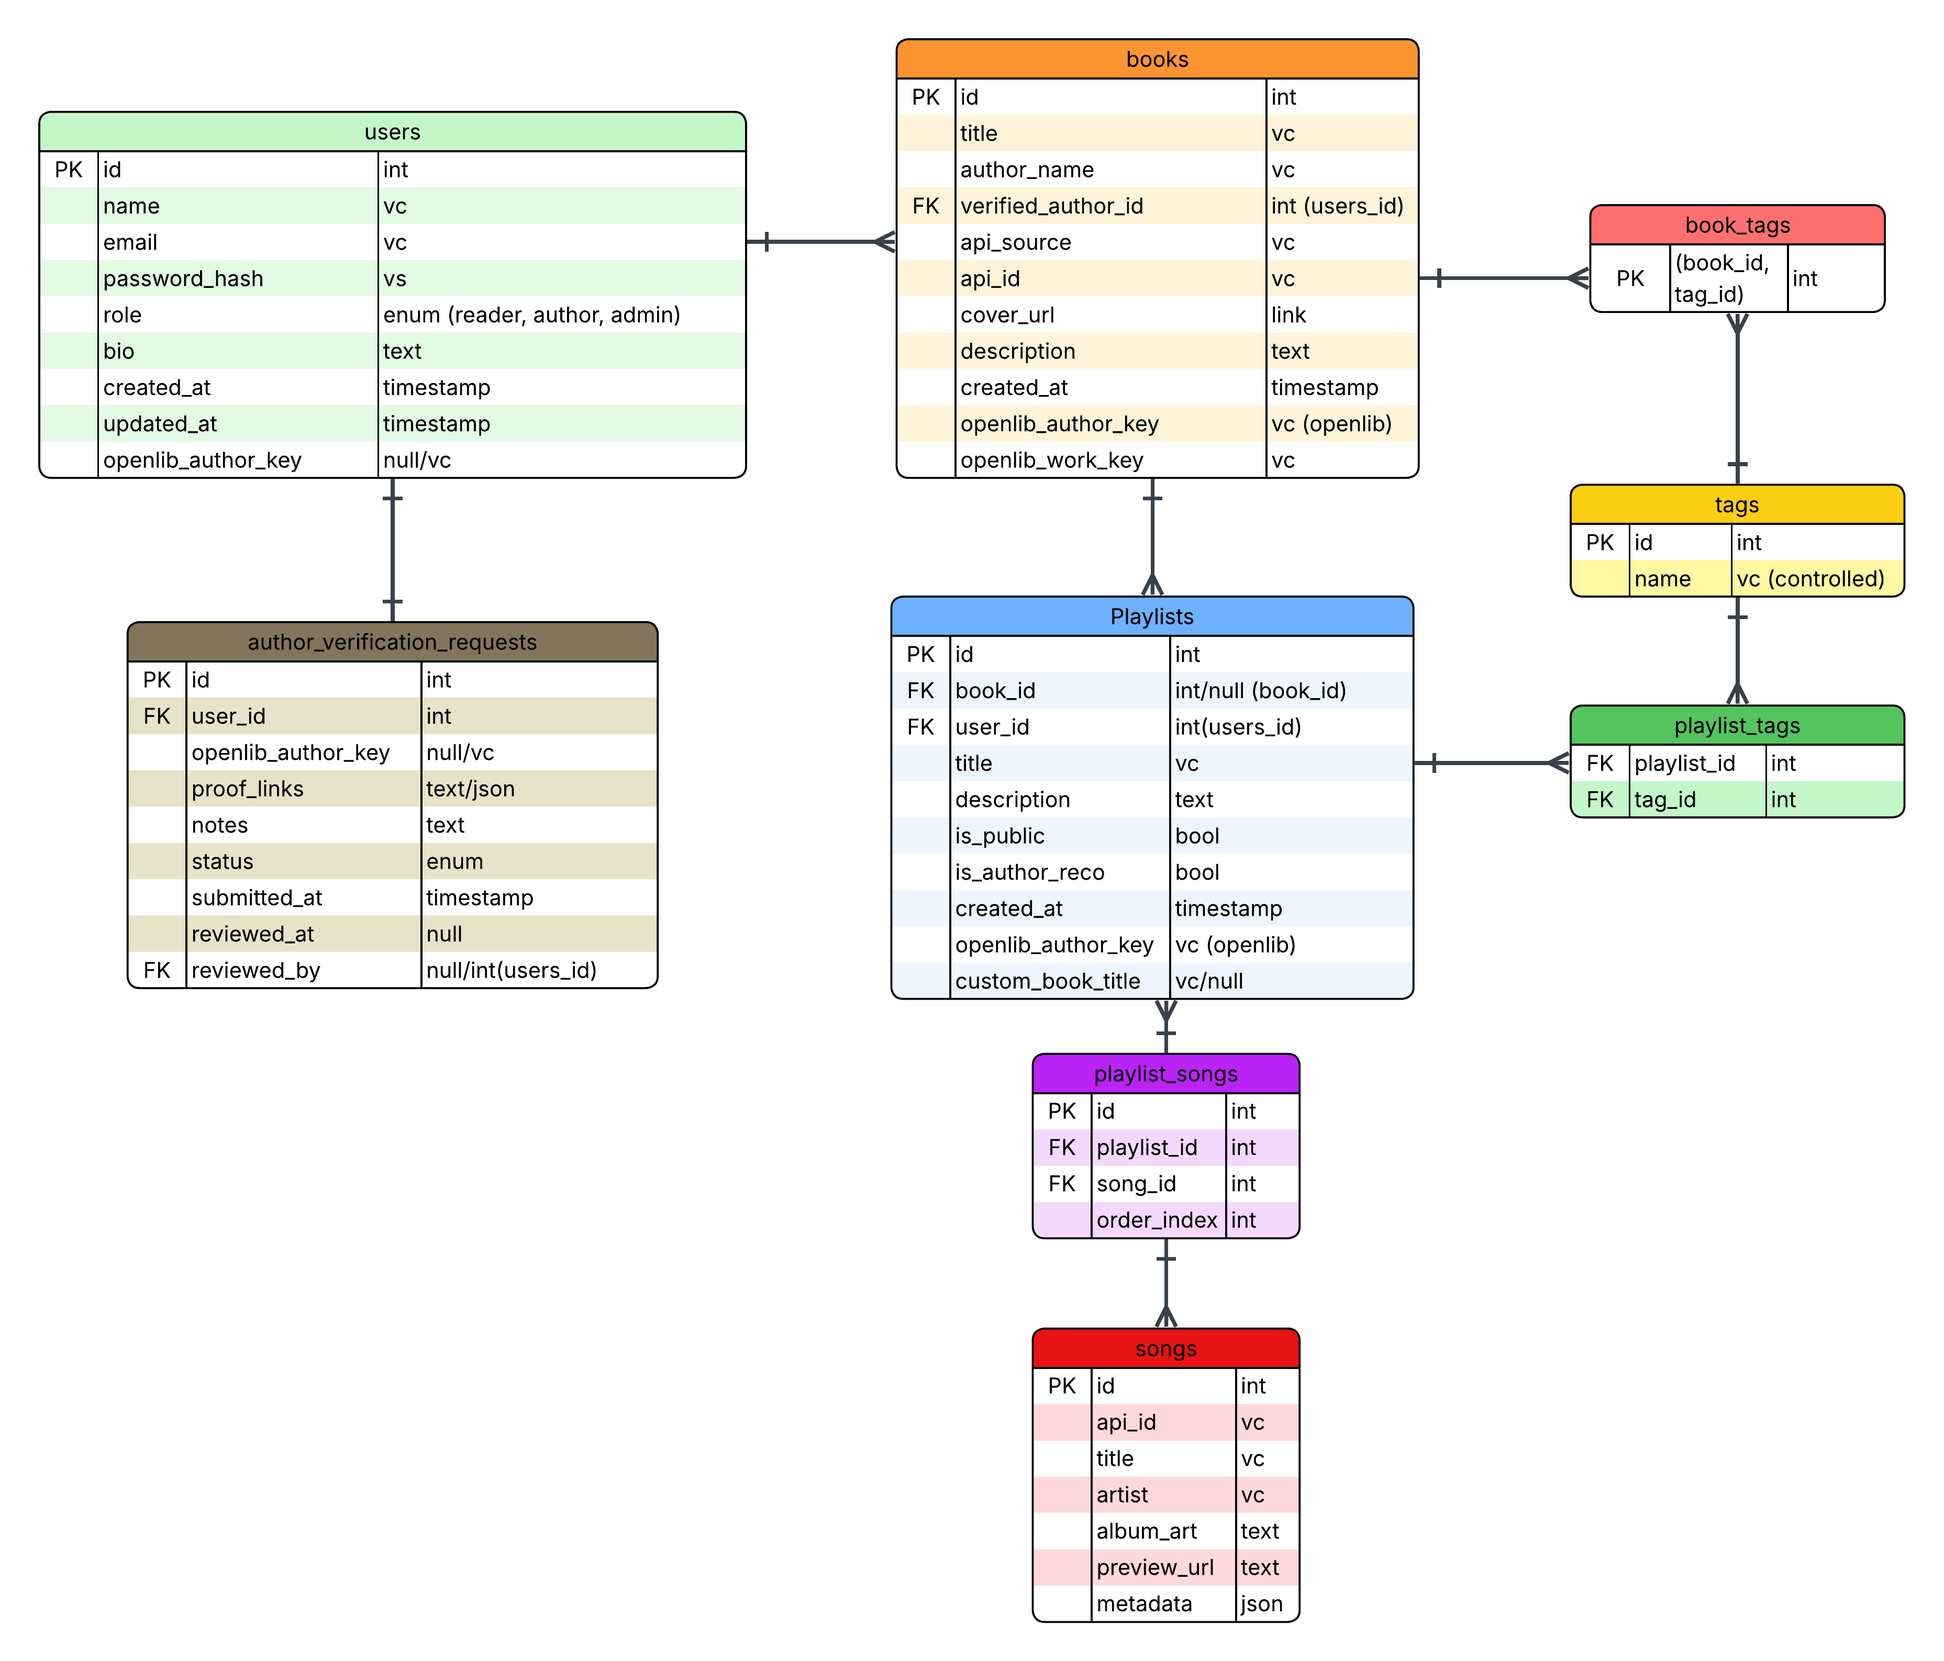
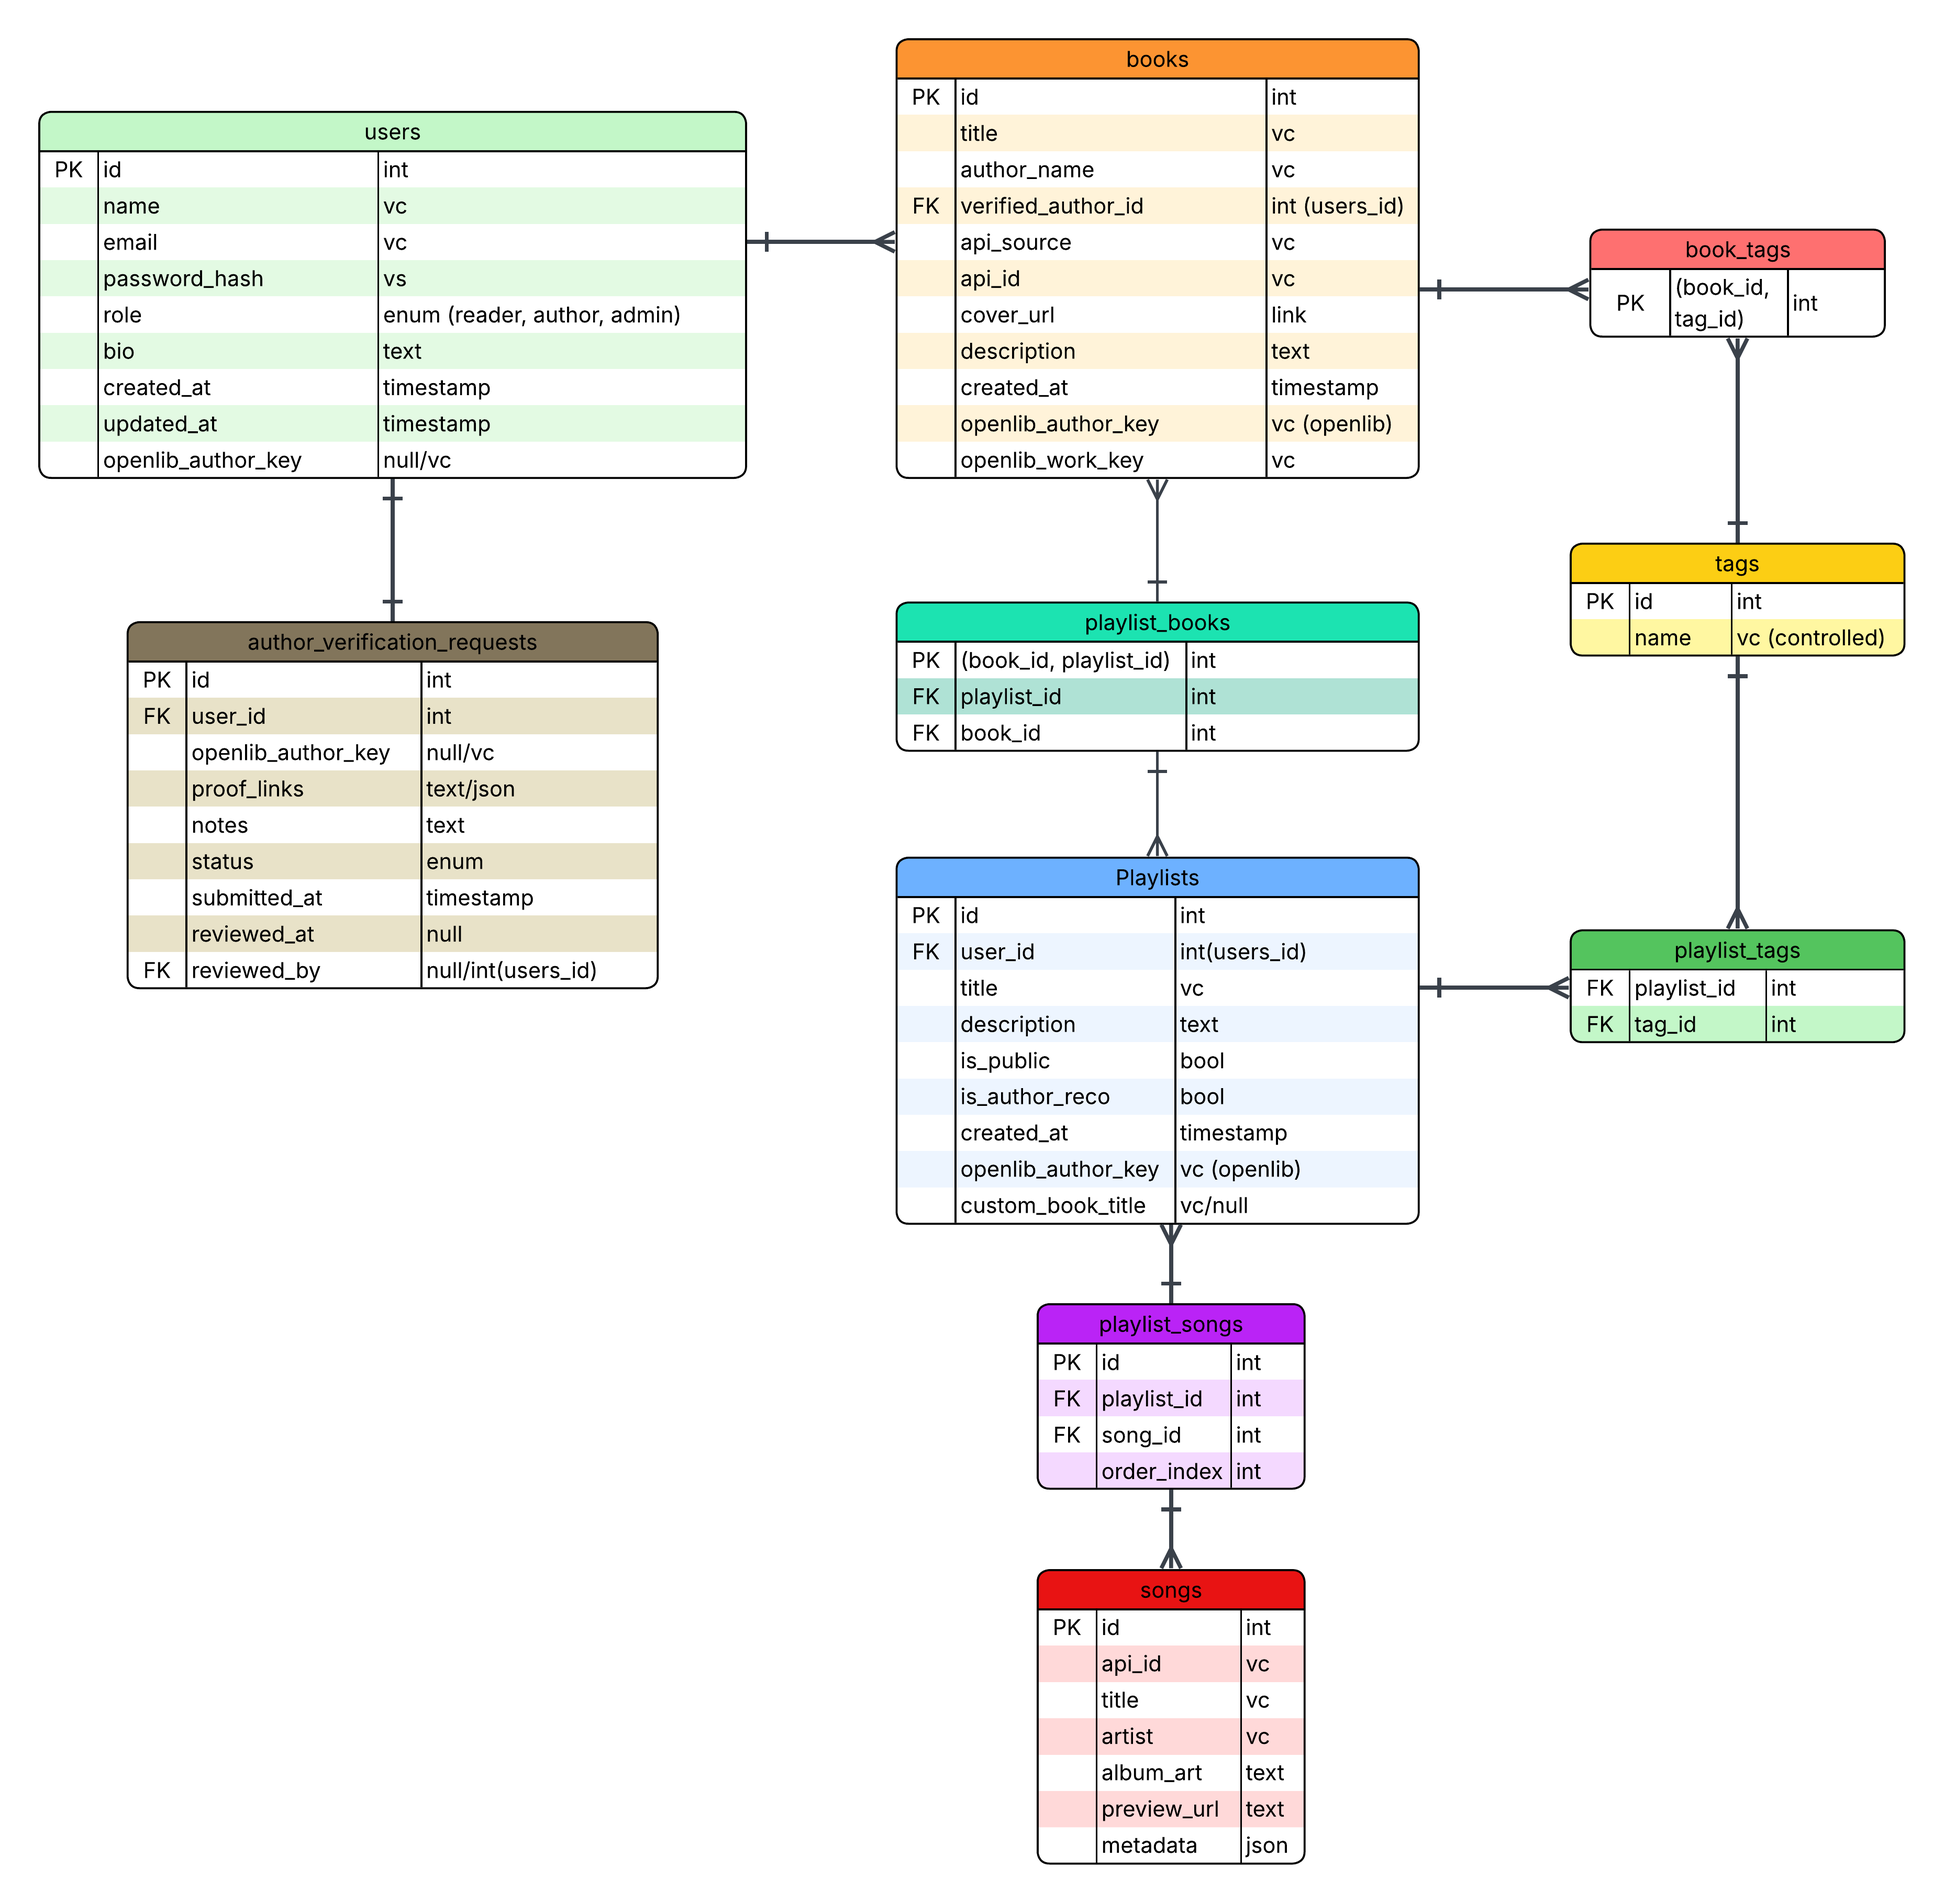
initial commit for backend models, init and extensions

diff --git a/Backend/app/models.py b/Backend/app/models.py
@@ -1,0 +1,230 @@
+from .extensions import db
+from sqlalchemy.orm import relationship
+from sqlalchemy import ForeignKey, Table, Column, Integer, String
+from sqlalchemy.sql import func
+from sqlalchemy import Enum
+
+
+
+# no need for junction tables as relationships are defined in the models directly
+
+#_____________USERS_____________________
+class Users(db.Model):
+    __tablename__ = 'users'
+    
+    id = db.Column(db.Integer, primary_key=True)
+    first_name = db.Column(db.String(250), nullable=False)
+    last_name = db.Column(db.String(250), nullable=False)
+    username = db.Column(db.String(250), unique=True, nullable=False)
+    email = db.Column(db.String(250), unique=True, nullable=False)
+    password = db.Column(db.String(250), nullable=False)
+    role = db.Column(
+        db.Enum('reader', 'admin', 'author', name='user_roles'), 
+        default='reader', 
+        nullable=False)
+    created_at = db.Column(db.DateTime(timezone=True), server_default=func.now())
+    updated_at = db.Column(db.DateTime(timezone=True), onupdate=func.now())
+    openlib_author_key = db.Column(db.String(250), nullable=True)
+    
+    #------------RELATIONSHIPS-----------------
+    
+    playlists = relationship("Playlists", backref="user", lazy=True)
+    authored_books = relationship(
+        "Books", 
+        secondary="book_authors", 
+        backref="authors", 
+        lazy='dynamic')
+
+#_____________AUTHOR VERIFICATION REQUESTS_____________________
+class Author_verification_requests(db.Model):
+    
+    __tablename__ = 'author_verification_requests'
+    
+    id = db.Column(db.Integer, primary_key=True)
+    user_id = db.Column(db.Integer, db.ForeignKey('users.id'), nullable=False)
+    author_bio = db.Column(db.String(1000), nullable=False)
+    openlib_author_key = db.Column(db.String(250), nullable=False)
+    proof_links = db.Column(db.String(1000), nullable=True)
+    notes = db.Column(db.String(1000), nullable=True)
+    status = db.Column(
+        db.Enum('pending', 'approved', 'rejected', name='verification_statuses'), 
+        default='pending', 
+        nullable=False)
+    submitted_at = db.Column(db.DateTime(timezone=True), server_default=func.now())
+    reviewed_at = db.Column(db.DateTime(timezone=True), onupdate=func.now())
+    reviewed_by = db.Column(db.Integer, db.ForeignKey('users.id'), nullable=True)
+
+#------------RELATIONSHIPS-----------------
+    user = relationship("Users", foreign_keys=[user_id], backref="verification_requests")
+    reviewer = relationship("Users", foreign_keys=[reviewed_by])
+
+
+#_____________BOOKS_____________________
+#this table is for verified books only from the API. 
+class Books(db.Model):
+    __tablename__ = 'books'
+    
+    id = db.Column(db.Integer, primary_key=True)
+    title = db.Column(db.String(500), nullable=False)
+    author_name = db.Column(db.String(250), nullable=False)
+    api_source = db.Column(db.String(250), nullable=True)
+    api_id = db.Column(db.String(250), nullable=True)
+    cover_url = db.Column(db.String(500), nullable=True)
+    description = db.Column(db.String(2000), nullable=True)
+    created_at = db.Column(db.DateTime(timezone=True), server_default=func.now())
+    updated_at = db.Column(db.DateTime(timezone=True), onupdate=func.now())
+    openlib_author_key = db.Column(db.String(250), nullable=True)
+    openlib_work_key = db.Column(db.String(250), nullable=True)
+    first_publish_year = db.Column(db.Integer, nullable=True)
+    
+#------------RELATIONSHIPS-----------------
+    # Multi-author support
+    authors = relationship(
+        "Users",
+        secondary="book_authors",
+        backref="authored_books",
+        lazy="dynamic"
+    )
+
+    # Tags on books
+    tags = relationship(
+        "Tags",
+        secondary="book_tags",
+        backref="books",
+        lazy="dynamic"
+    )
+
+    # Playlists that include this book
+    playlists = relationship(
+        "Playlists",
+        secondary="playlist_books",
+        backref="books",
+        lazy="dynamic"
+    )
+
+    
+
+#_____________PLAYLISTS_____________________
+#playlists is where users can create custom book titles if they cannot find the verified book in the Books table. eventually, the API can try to match the titles from playlists to add verified books to the Books table using the title and author name.
+class Playlists(db.Model):
+    __tablename__ = 'playlists'
+    
+    id = db.Column(db.Integer, primary_key=True)
+    user_id = db.Column(db.Integer, db.ForeignKey('users.id'), nullable=False)
+    title = db.Column(db.String(250), nullable=False)
+    description = db.Column(db.String(1000), nullable=True)
+    is_public = db.Column(db.Boolean, default=True, nullable=False)
+    is_author_reco = db.Column(db.Boolean, default=False, nullable=False)
+    created_at = db.Column(db.DateTime(timezone=True), server_default=func.now())
+    updated_at = db.Column(db.DateTime(timezone=True), onupdate=func.now())
+    openlib_author_key = db.Column(db.String(250), nullable=True)
+    custom_book_title = db.Column(db.String(250), nullable=True)
+    custom_author_name = db.Column(db.String(250), nullable=True)
+    
+#------------RELATIONSHIPS-----------------
+    # Books included in this playlist
+    books = relationship(
+        "Books",
+        secondary="playlist_books",
+        backref="playlists",
+        lazy="dynamic"
+    )
+
+    # Tags applied to this playlist
+    tags = relationship(
+        "Tags",
+        secondary="playlist_tags",
+        backref="playlists",
+        lazy="dynamic"
+    )
+
+    # Songs in this playlist (ordered)
+    songs = relationship(
+        "Songs",
+        secondary="playlist_songs",
+        backref="playlists",
+        lazy="dynamic"
+    )
+
+    
+#_____________SONGS_____________________
+class Songs(db.Model):
+    __tablename__ = 'songs'
+    
+    id = db.Column(db.Integer, primary_key=True)
+    api_id = db.Column(db.String(250), nullable=False)
+    title = db.Column(db.String(500), nullable=False)
+    artists = db.Column(db.JSON, nullable=False) #storing as JSON to accommodate multiple artists
+    album = db.Column(db.String(250), nullable=True)
+    album_art = db.Column(db.String(500), nullable=True)
+    preview_url = db.Column(db.String(500), nullable=True)
+    api_metadata = db.Column(db.String(1000), nullable=True)
+    source = db.Column(db.String(250), nullable=False, default="Spotify")
+
+#------------RELATIONSHIPS-----------------
+    playlists = relationship(
+    "Playlists",
+    secondary="playlist_songs",
+    backref="songs",
+    lazy="dynamic"
+)
+
+#_____________TAGS_____________________
+class Tags(db.Model):
+    __tablename__ = 'tags'
+    
+    id = db.Column(db.Integer, primary_key=True)
+    name = db.Column(db.String(100), unique=True, nullable=False)
+
+#------------RELATIONSHIPS-----------------
+    # Books that use this tag
+    books = relationship(
+        "Books",
+        secondary="book_tags",
+        backref="tags",
+        lazy="dynamic"
+    )
+
+    # Playlists that use this tag
+    playlists = relationship(
+        "Playlists",
+        secondary="playlist_tags",
+        backref="tags",
+        lazy="dynamic"
+    )
+
+#_____________ASSOCIATION TABLES_____________________
+    
+class Playlist_Songs(db.Model):
+    __tablename__ = 'playlist_songs'
+
+    playlist_id = db.Column(db.Integer, db.ForeignKey('playlists.id'), primary_key=True)
+    song_id = db.Column(db.Integer, db.ForeignKey('songs.id'), primary_key=True)
+    
+#_____________JUNCTION TABLES_____________________
+#all tables use composite primary keys to prevent duplicate entries
+class Playlist_Books(db.Model):
+    __tablename__ = 'playlist_books'
+    
+    playlist_id = db.Column(db.Integer, db.ForeignKey('playlists.id'), primary_key=True)
+    book_id = db.Column(db.Integer, db.ForeignKey('books.id'), primary_key=True)
+
+class Playlist_Tags(db.Model):
+    __tablename__ = 'playlist_tags'
+
+    playlist_id = db.Column(db.Integer, db.ForeignKey('playlists.id'), primary_key=True)
+    tag_id = db.Column(db.Integer, db.ForeignKey('tags.id'), primary_key=True)
+    
+class Book_Tags(db.Model):
+    __tablename__ = 'book_tags'
+
+    book_id = db.Column(db.Integer, db.ForeignKey('books.id'), primary_key=True)
+    tag_id = db.Column(db.Integer, db.ForeignKey('tags.id'), primary_key=True)
+    
+class Book_Authors(db.Model):
+    __tablename__ = 'book_authors'
+
+    book_id = db.Column(db.Integer, db.ForeignKey('books.id'), primary_key=True)
+    user_id = db.Column(db.Integer, db.ForeignKey('users.id'), primary_key=True)
+
+    

diff --git a/Backend/app/__init__.py b/Backend/app/__init__.py
@@ -1,17 +1,24 @@
-import os
 from flask import Flask
-from .extensions import engine, SessionLocal, Base
-from . import models
+from .extensions import db, migrate, ma, cors
 
 def create_app():
     app = Flask(__name__)
 
-    # Load your development config
+    # Load configuration (DevelopmentConfig inside config.py)
     app.config.from_object("config.DevelopmentConfig")
 
+    # Initialize extensions
+    db.init_app(app)
+    migrate.init_app(app, db)
+    ma.init_app(app)
+    cors.init_app(app)
+
+    # Import models AFTER db is initialized
+    from . import models
+
+    # Simple test route
     @app.get("/")
     def home():
         return {"message": "SoundBound API running"}
 
     return app
-

diff --git a/Backend/app/extensions.py b/Backend/app/extensions.py
@@ -1,16 +1,9 @@
-from sqlalchemy.orm import DeclarativeBase, sessionmaker
-from sqlalchemy import create_engine
-import os
-from dotenv import load_dotenv
-load_dotenv()
+from flask_sqlalchemy import SQLAlchemy
+from flask_migrate import Migrate
+from flask_marshmallow import Marshmallow
+from flask_cors import CORS
 
-
-
-DATABASE_URL = os.getenv("DATABASE_URL")
-
-engine = create_engine(DATABASE_URL)
-
-SessionLocal = sessionmaker(bind=engine, autoflush=False, autocommit=False)
-
-class Base(DeclarativeBase):
-    pass
+db = SQLAlchemy()
+migrate = Migrate()
+ma = Marshmallow()
+cors = CORS()

diff --git a/Backend/config.py b/Backend/config.py
@@ -1,13 +1,14 @@
 import os
 
 class DevelopmentConfig:
-    SQLALCHEMY_DATABASE_URI = os.getenv("DATABASE_URL")
+    SQLALCHEMY_DATABASE_URI = os.getenv("DATABASE_URL") or "sqlite:///dev.db"
     DEBUG = True
-    CACHE_TYPE = "SimpleCache"
-    CACHE_DEFAULT_TIMEOUT = 300
-    
+    SQLALCHEMY_TRACK_MODIFICATIONS = False
+
+
 class TestingConfig:
     pass
+
 
 class ProductionConfig:
     pass
